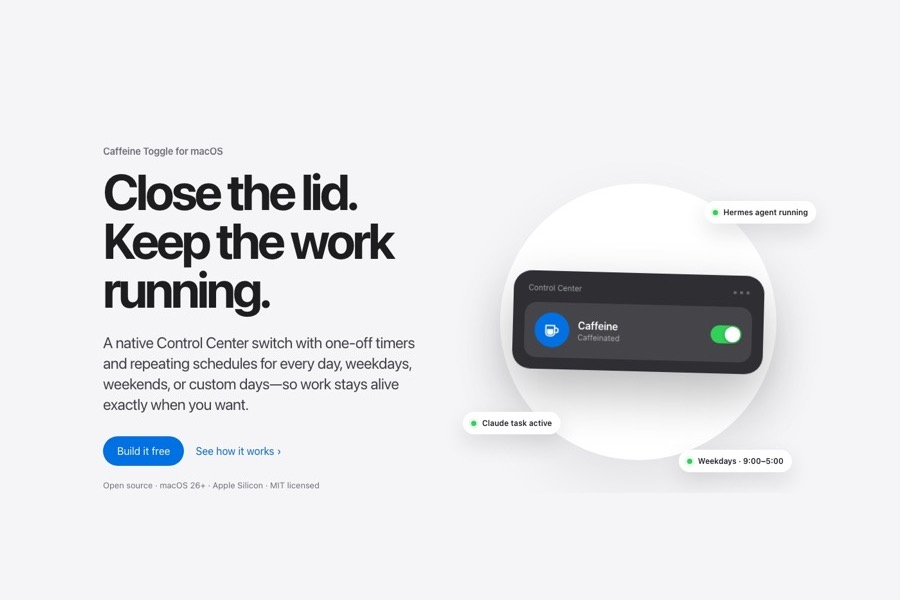
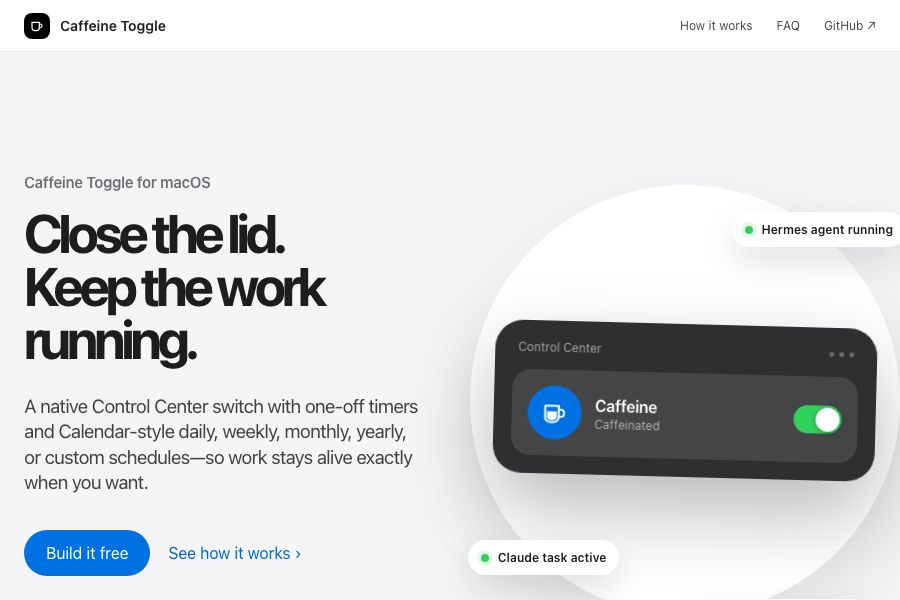
Showcase Calendar-style Caffeine scheduling (#4)

diff --git a/src/data.ts b/src/data.ts
@@ -38,7 +38,7 @@ export const PROJECTS: Project[] = [
     name: 'Caffeine Toggle',
     tag: 'macOS Control Center utility',
     problem: 'The Terminal caffeinate command is invisible, easy to forget, and does not normally keep a Mac awake through lid closure.',
-    solution: 'Caffeine Toggle adds one seamless Control Center switch plus Timer and Repeat. Single-click to toggle now; double-click to run for the next 30 minutes–8 hours or choose weekday, weekend, and custom schedules.',
+    solution: 'Caffeine Toggle adds one seamless Control Center switch plus Timer and Calendar-style Repeat. Single-click to toggle now; double-click to run for 30 minutes–8 hours or schedule daily, weekly, monthly, yearly, and custom recurrences.',
     link: 'https://kimiyashar.github.io/caffeine-toggle/',
     linkLabel: 'Visit the site',
     secondaryLink: 'https://github.com/kimiyashar/caffeine-toggle',
